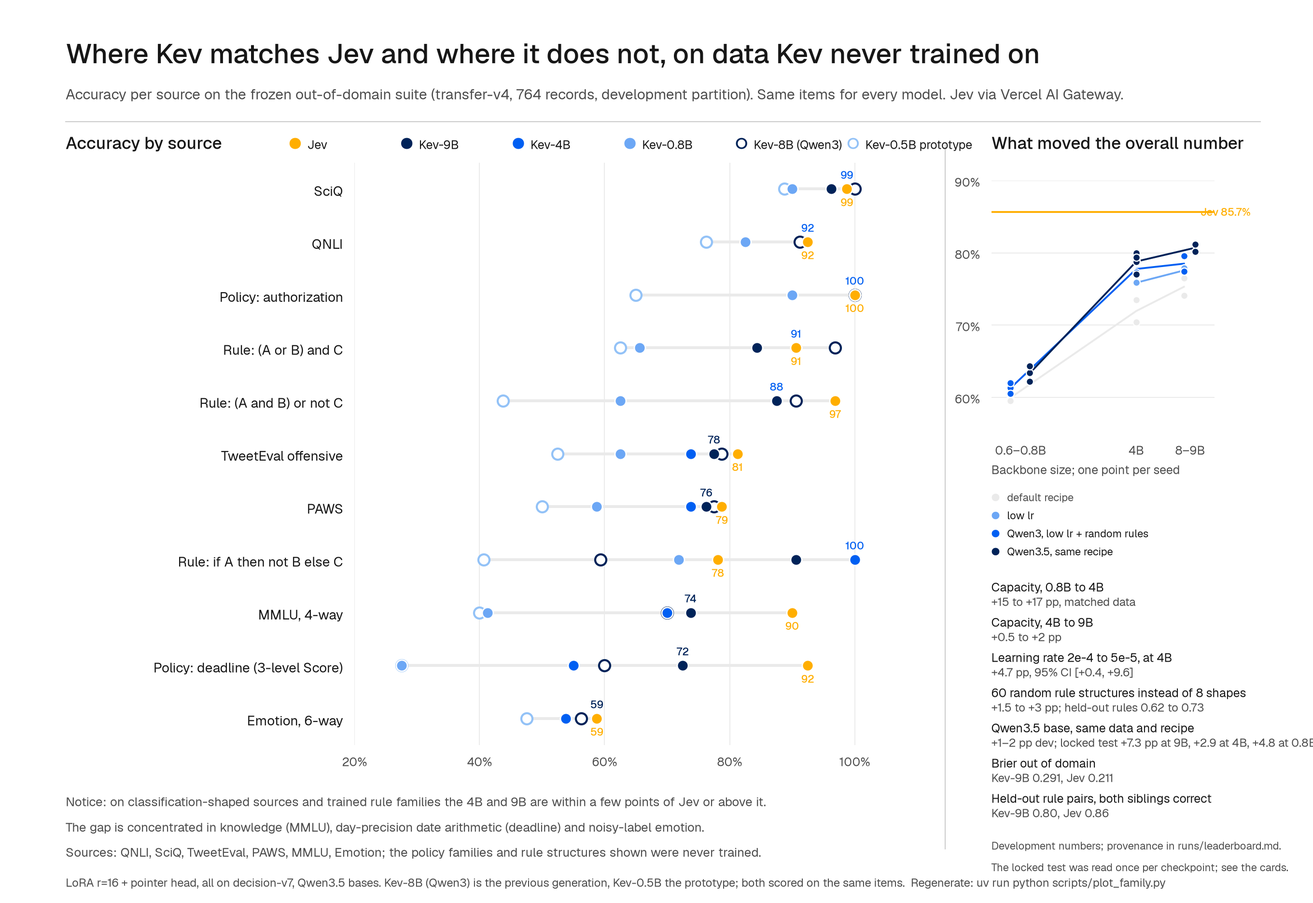
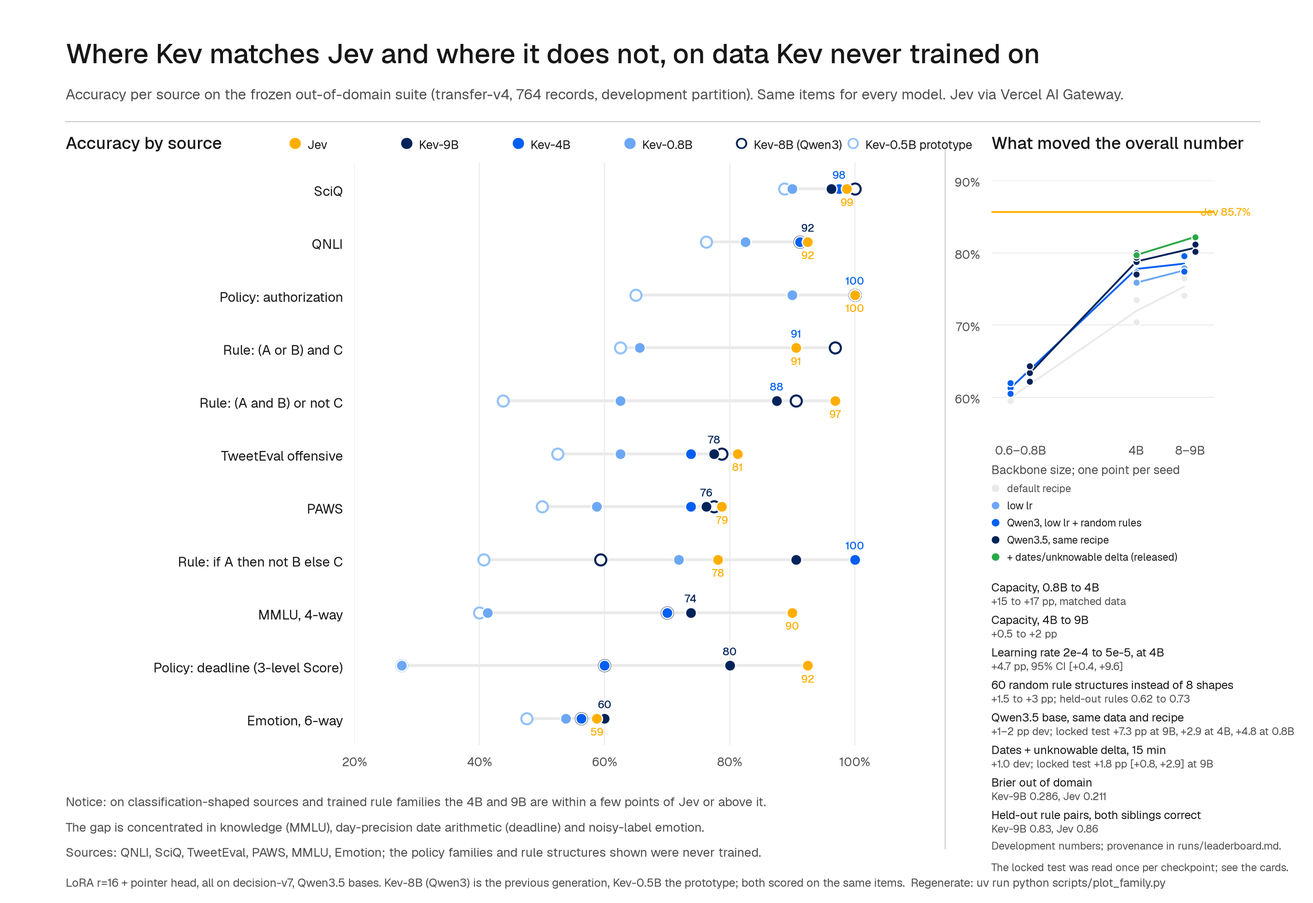
Promote the dates+unknowable deltas: Kev-9B (locked 0.852) and Kev-4B (0.837) on Hub main, v7-base tags; cards with calibrated and date_facts rows; README models/settings; figures

diff --git a/scripts/plot_family.py b/scripts/plot_family.py
@@ -11,14 +11,14 @@ from pathlib import Path
 sys.path.insert(0, str(Path(__file__).resolve().parent))
 import matplotlib.pyplot as plt
 import numpy as np
-from chartstyle import GRID, HOLLOW, JEV, KEV, RULE, TEXT, TEXT2, body, display, heading, rule, strip, use_style
+from chartstyle import GREEN, GRID, HOLLOW, JEV, KEV, RULE, TEXT, TEXT2, body, display, heading, rule, strip, use_style
 
 ROOT = Path(__file__).resolve().parents[1]
 TASKS = [("sciq", "SciQ"), ("qnli", "QNLI"), ("contrastive_authorization", "Policy: authorization"), ("composition_held_and_or", "Rule: (A or B) and C"),
          ("composition_held_or_not", "Rule: (A and B) or not C"), ("tweet_offensive", "TweetEval offensive"), ("paws", "PAWS"),
          ("composition_held_conditional", "Rule: if A then not B else C"), ("mmlu", "MMLU, 4-way"), ("contrastive_deadline", "Policy: deadline (3-level Score)"), ("emotion", "Emotion, 6-way")]
 MODELS = [("kev-0.5b", "runs/kev-05b-transfer-v4/report.json"), ("kev-8b-qwen3", "runs/v7-final/00-trial-0/result.json"), ("kev-0.8b", "runs/q35-08b/02-trial-2/result.json"),
-          ("kev-4b", "runs/q35-4b-s23/00-trial-0/result.json"), ("kev-9b", "runs/q35-9b/01-trial-1/result.json")]
+          ("kev-4b", "runs/night2-4b-du/00-trial-0/result.json"), ("kev-9b", "runs/night2-9b-du/00-trial-0/result.json")]
 JEV_PATH = "runs/jev-transfer-v4/report.json"
 # capacity x recipe curve: (params in B, recipe, [transfer acc per seed], source trials)
 CURVE = [(0.6, "default recipe", [0.598, 0.595, 0.605], "v4-06b-hardened"), (0.6, "low lr + random rule structures", [0.613, 0.605, 0.620], "v7-06b"),
@@ -26,9 +26,10 @@ CURVE = [(0.6, "default recipe", [0.598, 0.595, 0.605], "v4-06b-hardened"), (0.6
          (4.0, "low lr + random rule structures", [0.773, 0.790, 0.770], "v7-rc3, v7-final/02"),
          (8.2, "default recipe", [0.765, 0.741], "v3-8b-s0 (transfer-v3 = same bytes)"), (8.2, "low lr", [0.774, 0.779, 0.774], "recipe-8b-r1/00, recipe-8b-r2/01, recipe-8b-s2"),
          (8.2, "low lr + random rule structures", [0.796, 0.774], "v7-final/00, v7-final/01"),
-         (0.8, "Qwen3.5 base, same recipe", [0.622, 0.634, 0.643], "q35-08b"), (4.0, "Qwen3.5 base, same recipe", [0.788, 0.800, 0.794, 0.770], "q35-4b, q35-4b-s23"), (9.7, "Qwen3.5 base, same recipe", [0.802, 0.812], "q35-9b")]
-RECIPE_COLOR = {"default recipe": GRID, "low lr": KEV["kev-0.6b"], "low lr + random rule structures": KEV["kev-4b"], "Qwen3.5 base, same recipe": KEV["kev-9b"]}
-RECIPE_SHORT = {"default recipe": "default recipe", "low lr": "low lr", "low lr + random rule structures": "Qwen3, low lr +\nrandom rules", "Qwen3.5 base, same recipe": "Qwen3.5,\nsame recipe"}
+         (0.8, "Qwen3.5 base, same recipe", [0.622, 0.634, 0.643], "q35-08b"), (4.0, "Qwen3.5 base, same recipe", [0.788, 0.800, 0.794, 0.770], "q35-4b, q35-4b-s23"), (9.7, "Qwen3.5 base, same recipe", [0.802, 0.812], "q35-9b"),
+         (4.0, "+ dates/unknowable delta", [0.797], "night2-4b-du"), (9.7, "+ dates/unknowable delta", [0.822], "night2-9b-du")]
+RECIPE_COLOR = {"default recipe": GRID, "low lr": KEV["kev-0.6b"], "low lr + random rule structures": KEV["kev-4b"], "Qwen3.5 base, same recipe": KEV["kev-9b"], "+ dates/unknowable delta": GREEN[700]}
+RECIPE_SHORT = {"default recipe": "default recipe", "low lr": "low lr", "low lr + random rule structures": "Qwen3, low lr +\nrandom rules", "Qwen3.5 base, same recipe": "Qwen3.5,\nsame recipe", "+ dates/unknowable delta": "+ dates/unknowable\ndelta (released)"}
 
 
 def transfer(path):
@@ -86,7 +87,7 @@ def main():
         cx.plot([p for p, _ in pts], [np.mean(v) for _, v in pts], color=color, lw=1.6, zorder=2)
     cx.axhline(100 * jev_acc, color=JEV, lw=1.6, zorder=1); cx.annotate(f"Jev {100 * jev_acc:.1f}%", (9, 100 * jev_acc), xytext=(9, 0), textcoords="offset points", fontsize=9.5, color=JEV, va="center", weight="medium")
     for j, (recipe, color) in enumerate(RECIPE_COLOR.items()):     # key as text lines under the axis, one per series (end labels collide at 8-9B)
-        fig.text(x0, .445 - .02 * j, "●", fontsize=9, color=color, va="baseline"); fig.text(x0 + .012, .445 - .02 * j, RECIPE_SHORT[recipe].replace("\n", " "), fontsize=9.5, color=TEXT2 if color == GRID else TEXT, va="baseline")
+        fig.text(x0, .455 - .019 * j, "●", fontsize=9, color=color, va="baseline"); fig.text(x0 + .012, .455 - .019 * j, RECIPE_SHORT[recipe].replace("\n", " "), fontsize=9, color=TEXT2 if color == GRID else TEXT, va="baseline")
     cx.set_xscale("log"); cx.set_xticks([0.7, 4, 9]); cx.set_xticklabels(["0.6–0.8B", "4B", "8–9B"], fontsize=10.5, color=TEXT2); cx.set_xlim(0.45, 13)
     cx.set_ylim(55, 90); cx.set_yticks(range(60, 91, 10)); cx.set_yticklabels([f"{v}%" for v in range(60, 91, 10)], fontsize=10.5, color=TEXT2)
     cx.grid(axis="y", color=GRID, lw=.8, zorder=0); cx.tick_params(length=0); strip(cx); cx.minorticks_off()
@@ -95,9 +96,10 @@ def main():
     rows = [("Capacity, 0.8B to 4B", "+15 to +17 pp, matched data"), ("Capacity, 4B to 9B", "+0.5 to +2 pp"),
             ("Learning rate 2e-4 to 5e-5, at 4B", "+4.7 pp, 95% CI [+0.4, +9.6]"), ("60 random rule structures instead of 8 shapes", "+1.5 to +3 pp; held-out rules 0.62 to 0.73"),
             ("Qwen3.5 base, same data and recipe", "+1–2 pp dev; locked test +7.3 pp at 9B, +2.9 at 4B, +4.8 at 0.8B"),
+            ("Dates + unknowable delta, 15 min", "+1.0 dev; locked test +1.8 pp [+0.8, +2.9] at 9B"),
             ("Brier out of domain", f"Kev-9B {data['kev-9b'][2]:.3f}, Jev {jev_brier:.3f}"), ("Held-out rule pairs, both siblings correct", f"Kev-9B {data['kev-9b'][3]:.2f}, Jev {jev_pairs:.2f}")]
     for i, (k, v) in enumerate(rows):
-        fig.text(x0, .345 - .039 * i, k, fontsize=10.5, color=TEXT, va="baseline"); fig.text(x0, .345 - .039 * i - .016, v, fontsize=10, color=TEXT2, va="baseline")
+        fig.text(x0, .345 - .036 * i, k, fontsize=10, color=TEXT, va="baseline"); fig.text(x0, .345 - .036 * i - .015, v, fontsize=9.5, color=TEXT2, va="baseline")
     body(fig, x0, .075, "Development numbers; provenance in runs/leaderboard.md.\nThe locked test was read once per checkpoint; see the cards.", size=9.5, va="top")
     body(fig, .05, .018, "LoRA r=16 + pointer head, all on decision-v7, Qwen3.5 bases. Kev-8B (Qwen3) is the previous generation, Kev-0.5B the prototype; both scored on the same items.  Regenerate: uv run python scripts/plot_family.py", size=10)
 

diff --git a/scripts/plot_tweet.py b/scripts/plot_tweet.py
@@ -16,14 +16,14 @@ import chartstyle as cs
 from chartstyle import HOLLOW, JEV, KEV, body, display, heading, hbars, rule, stat, use_style
 
 ROOT = Path(__file__).resolve().parents[1]
-MODELS = [("kev-9b", "Qwen3.5-9B", "runs/q35-9b/01-trial-1/result.json"),
-          ("kev-4b", "Qwen3.5-4B", "runs/q35-4b-s23/00-trial-0/result.json"),
+MODELS = [("kev-9b", "Qwen3.5-9B", "runs/night2-9b-du/00-trial-0/result.json"),
+          ("kev-4b", "Qwen3.5-4B", "runs/night2-4b-du/00-trial-0/result.json"),
           ("kev-0.8b", "Qwen3.5-0.8B", "runs/q35-08b/02-trial-2/result.json")]
 PROTOTYPE = ("kev-0.5b", "Qwen2.5-0.5B, prototype", "runs/kev-05b-transfer-v4/report.json")
 BASES = [("Qwen3.5-9B", "untrained base", "runs/probes/qwen35-9b-base-base-transfer-v4/report.json"),
          ("Qwen3.5-4B instruct", "untrained, SemIf prompt", "runs/probes/qwen35-4b-semif-transfer-v4/report.json")]
-LOCKED = [("kev-9b", "runs/locked/kev-9b-q35/summary.json"),
-          ("kev-4b", "runs/locked/kev-4b-q35/summary.json"),
+LOCKED = [("kev-9b", "runs/locked/kev-9b-night2-du-ungated/summary.json"),
+          ("kev-4b", "runs/locked/kev-4b-night2-du-ungated/summary.json"),
           ("kev-0.8b", "runs/locked/kev-08b-q35-ungated/summary.json")]
 JEV_T = "runs/jev-transfer-v4/report.json"
 

diff --git a/docs/model-cards/kev-4b.md b/docs/model-cards/kev-4b.md
@@ -33,77 +33,87 @@ model-index:
       - task: { type: text-classification, name: typed decision (choice / noul / score) }
         dataset: { type: mixed, name: "decision-v7 development (1,204 records; ten trained public sources + programmatic policy data)" }
         metrics:
-          - { type: accuracy, value: 0.877 }
-          - { type: expected_calibration_error, value: 0.059, name: "ECE, raw probabilities" }
+          - { type: accuracy, value: 0.872 }
+          - { type: expected_calibration_error, value: 0.075, name: "ECE, raw probabilities" }
       - task: { type: text-classification, name: typed decision, out-of-domain }
         dataset: { type: mixed, name: "transfer-v4 development (764 records; six never-trained sources + held-out policy structures)" }
         metrics:
-          - { type: accuracy, value: 0.794 }
-          - { type: brier_score, value: 0.316 }
+          - { type: accuracy, value: 0.797 }
+          - { type: brier_score, value: 0.299 }
       - task: { type: text-classification, name: typed decision, out-of-domain, locked test }
         dataset: { type: mixed, name: "transfer-v4 test (read once)" }
         metrics:
-          - { type: accuracy, value: 0.832 }
-          - { type: brier_score, value: 0.266 }
+          - { type: accuracy, value: 0.837 }
+          - { type: brier_score, value: 0.255 }
 ---
 
 # Kev-4B
 
 Kev-4B is a **decision model**: one document (the *state*) and a set of typed questions in, a probability distribution per question out, in one forward pass. No text generation. It is a LoRA adapter (r=16, 33.8M trainable parameters) plus a pointer head on `Qwen/Qwen3.5-4B-Base` (revision `1001bb4d`), serving TypeSafe's public `/v1/systemone` contract.
 
-**The recommended Kev.** The best accuracy per byte: out of domain 0.794 on the development partition and **0.832 on the locked test**, against the Qwen3 Kev-4B's 0.790 / 0.806 on the same items, with better calibration (Brier 0.266 vs 0.294 on the test) and the highest held-out-rule score of any 4B (0.78). Same recipe at four seeds: transfer 0.788 / 0.800 / **0.794** / 0.770, held-out pairs 0.72 / 0.75 / 0.78 / 0.69; this checkpoint is seed 2, selected on the development partition (highest development accuracy).
+**The recommended Kev.** The best accuracy per byte: out of domain 0.797 on the development partition and **0.837 on the locked test**, Brier 0.255 on the test, held-out rule pairs 0.77–0.78. This checkpoint is the `decision-v7` recipe (trial `q35-4b-s23/00-trial-0`, seed 2, selected on development accuracy) followed by a 9-minute **delta fine-tune** (`--init_from`, lr 2e-5, one epoch) on 1,425 additional records — date-bearing policy cases rendered with explicit day counts, and evidence-free cases with uniform targets — mixed with 2,000 replayed training records. Against the pre-delta checkpoint on the locked test: +1.0 pp [−0.1, +2.1], Brier 0.266 → 0.255, `deadline` 0.65 → 0.75.
 
-- Hub: `jaredpalmer/kev-4b` (this repo, main revision; trial `q35-4b-s23/00-trial-0`). The previous Qwen3 checkpoint is at revision `qwen3` and has [its own card](kev-4b-qwen3.md).
+- Hub: `jaredpalmer/kev-4b` (this repo; trial `night2-4b-du/00-trial-0`). The pre-delta checkpoint is at revision `v7-base`; the Qwen3 generation at `qwen3` ([its card](kev-4b-qwen3.md)).
 - Code, suites, every trial with hashes and paired bootstraps: [github.com/jaredpalmer/kev](https://github.com/jaredpalmer/kev) — `PLAN_Qwen35.md` (the port and this experiment), `PLAN.md`, `runs/leaderboard.md`
 
 ## Results (same frozen items for every row)
 
-| | Kev-4B (Qwen3) | Kev-8B (Qwen3) | **Kev-4B** | Kev-9B | Jev |
+| | Kev-4B (Qwen3) | Kev-4B before the delta (`v7-base`) | **Kev-4B** | Kev-4B, calibrated (T = 2.0) | Jev |
 |---|---|---|---|---|---|
-| in-distribution accuracy (decision-v7 dev, 1,204 records) | 0.854 | 0.863 | **0.877** | 0.876 | 0.845 |
-| out-of-domain accuracy (transfer-v4 dev, 764 records) | 0.790 | 0.796 | **0.794** | 0.812 | 0.857 |
-| out-of-domain Brier | 0.328 | 0.337 | **0.316** | 0.291 | 0.211 |
-| confident errors out of domain (p ≥ 0.9 and wrong) | 8.2% | 9.9% | 8.2% | 7.5% | 3.7% |
-| coverage at ≤ 5% error (share of decisions automatable) | 0.31 | 0.45 | 0.54 | 0.53 | 0.70 |
-| held-out policy structures, both siblings correct | 0.73 | 0.69 | **0.78** | 0.80 | 0.86 |
-| option-order flip rate | 0.06 | 0.00 | 0.08 | 0.03 | 0.00 |
-| **locked test**, out-of-domain accuracy / Brier | 0.806 / 0.294 | 0.780 / 0.327 | **0.832 / 0.266** | 0.837 / 0.243 | – |
-| **locked test**, in-distribution accuracy | 0.856 | 0.870 | 0.870 | 0.873 | – |
+| in-distribution accuracy (decision-v7 dev, 1,204 records) | 0.854 | 0.877 | 0.872 | 0.872 | 0.845 |
+| out-of-domain accuracy (transfer-v4 dev, 764 records) | 0.790 | 0.794 | **0.797** | 0.797 | 0.857 |
+| out-of-domain Brier | 0.328 | 0.316 | 0.299 | **0.265** | 0.211 |
+| out-of-domain ECE | 0.102 | 0.130 | 0.122 | **0.048** | 0.049 |
+| confident errors out of domain (p ≥ 0.9 and wrong) | 8.2% | 8.2% | 6.9% | **3.2%** | 3.7% |
+| coverage at ≤ 5% error (share of decisions automatable) | 0.31 | 0.54 | 0.54 | 0.58 | 0.70 |
+| held-out policy structures, both siblings correct | 0.73 | 0.78 | 0.78 | 0.78 | 0.86 |
+| unknowable items answered at ≥ 0.9 (lower is better; transfer-v9) | 0.44 | 0.19 | **0.00** | 0.00 | 0.09 |
+| **locked test**, out-of-domain accuracy / Brier | 0.806 / 0.294 | 0.832 / 0.266 | **0.837 / 0.255** | – | – |
+| **locked test**, in-distribution accuracy | 0.856 | 0.870 | 0.871 | – | – |
 
-Per-source out-of-domain accuracy (Kev-4B / Jev): QNLI 0.93 / 0.93, SciQ 0.99 / 0.99, TweetEval-offensive 0.74 / 0.81, PAWS 0.74 / 0.79, MMLU 0.70 / 0.90, Emotion 0.54 / 0.59, deadline (3-level date arithmetic) 0.55 / 0.93, (A or B) and C 0.91 / 0.91, (A and B) or not C 0.88 / 0.97, if A then not B else C 1.00 / 0.78.
+Per-source out-of-domain accuracy (Kev-4B / Jev): QNLI 0.91 / 0.93, SciQ 0.97 / 0.99, TweetEval-offensive 0.74 / 0.81, PAWS 0.74 / 0.79, MMLU 0.70 / 0.90, Emotion 0.56 / 0.59, deadline (3-level date arithmetic) 0.60 / 0.93 — **0.85 with the `date_facts` preprocessor** (below), (A or B) and C 0.91 / 0.91, (A and B) or not C 0.88 / 0.97, if A then not B else C 1.00 / 0.78.
 
-**Paired against the Qwen3 Kev-4B on the same items** (record-clustered bootstrap): development +1.3 pp [−1.3, +4.6]; **locked test +2.9 pp [−0.9, +6.4]**, Brier −0.028. The pre-registered criteria for this experiment asked for a development-partition CI excluding zero and `deadline` ≥ 0.75; neither was met (deadline 0.55). The locked read, taken once after selection, is the confirmatory number. Both facts are in `PLAN_Qwen35.md` §10.
+**Calibrated row.** A single temperature T = 2.0 fitted on the in-distribution development rows and applied out of domain (`scripts/temperature_groups.py`). It leaves accuracy and the confidence ranking unchanged and brings ECE and confident errors to Jev's level; it is applied only when you ask for it (`KEV_TEMPERATURE=2.0` in `kev.serve`). Per-(type, option-count) temperatures were tested and are worse out of domain.
 
-**Newer evaluation columns** (`transfer-v9` development, Kev-4B / Qwen3 Kev-4B / Jev): MMLU-Pro (10-way) 0.500 / 0.440 / 0.840; state buried among unrelated records 0.66 / 0.69 / 0.70; share of *unknowable* items (deciding evidence removed) answered at ≥ 0.9 confidence 0.19 / 0.44 / 0.09 — lower is better.
+**`date_facts` preprocessor.** Kev, like every Kev before it, cannot subtract dates reliably (the untrained base can; LoRA training erodes it). It can use a stated day count. `KEV_DATE_FACTS=1` appends one sentence per pair of absolute dates found in the state ("June 26, 2026 is 8 days before July 4, 2026"); this checkpoint was trained on such renderings, so with it `deadline` goes from 0.60 to 0.85 and overall out-of-domain accuracy from 0.797 to 0.820. It is preprocessing, reported separately, never folded into the model's own numbers.
 
-**External suites** (same items as their published Jev numbers; measured on seed 1 of this recipe): SemIf's authored 144 — 0.896 (Qwen3 Kev-4B 0.847, SemIf's untrained Qwen3.5-4B 0.813, live Jev 0.965); scienthoon's 900 tickets — queue 0.928, angry 0.794, ECE 0.086 (Jev 0.897, 0.914, 0.105; the Qwen3 Kev-4B scored 0.687 / 0.375).
+**What the delta cost.** MMLU-Pro fell 0.500 → 0.490 and scienthoon's ECE rose 0.086 → 0.116; coverage at ≤ 5% error was unchanged (0.54 development, 0.67 → 0.68 locked test) and confident errors fell (8.2% → 6.9%). The pre-registered criteria for the delta (`PLAN.md`, "Tonight's autoresearch") were met for dates and for the unknowable-confidence behaviour; the coverage criterion asked for +5 pp and got 0; the locked read decided promotion.
 
-## What changed from the Qwen3 Kev-4B
+**Newer evaluation columns** (`transfer-v9` development, Kev-4B / Jev): MMLU-Pro (10-way) 0.490 / 0.840; state buried among unrelated records 0.68 / 0.70; unknowable share at ≥ 0.9 confidence 0.00 / 0.09 (intact controls 0.94).
+
+**External suites** (same items as their published Jev numbers): SemIf's authored 144 — 0.896 before the delta (live Jev 0.965; SemIf's untrained Qwen3.5-4B 0.813); scienthoon's 900 tickets — queue 0.918, angry 0.790, ECE 0.116 (Jev 0.897, 0.914, 0.105). On ekzhang's 1,000-question MMLU-Pro sample the pre-delta checkpoint scores 0.468 (Jev 0.829).
+
+## How it was built
 
 - **Base model**: Qwen3.5-4B-Base, a hybrid of 24 Gated DeltaNet (linear attention) layers and 8 full-attention layers. Because the recurrent layers cannot honour a block-causal mask, questions run as separate causal rows that continue from the shared state (`kev/model.py: forward_rows_batch`); isolation is exact by construction (together vs alone within 1e-5) and on attention-only models this form is bit-identical to the packed one.
-- **Same data and recipe** as the Qwen3 checkpoints: `decision-v7`, two epochs, LoRA r=16 (attention, MLP and DeltaNet projections), lr 5e-5. Nothing else changed, so every difference above is the base.
-- What the new base bought: in-distribution accuracy (+2.3 pp), knowledge retention (MMLU +5 pp, MMLU-Pro +6 pp), held-out rules (0.73 → 0.78, and 3 of 4 seeds ≥ 0.70), coverage at ≤ 5% error (0.31 → 0.54), and behaviour on evidence-free questions (0.44 → 0.19 confidently answered). What it did not buy: out-of-domain accuracy beyond noise on the development partition, Emotion (0.66 → 0.54), or date arithmetic — the base does it at 0.68 zero-shot and training erodes it to 0.55 (see `PLAN_Qwen35.md`, "The deadline hypothesis").
+- **Recipe**: `decision-v7`, two epochs, LoRA r=16 (attention, MLP and DeltaNet projections), lr 5e-5 — the same data and settings as every other Kev, so the Qwen3 → Qwen3.5 difference is the base (`PLAN_Qwen35.md` §10: locked test +7.3 pp [+2.8, +11.7] over Kev-8B).
+- **Delta**: `kev.train --init_from jaredpalmer/kev-4b@v7-base --data evals/night2/dates_unknowable.jsonl --replay 2000 --lr 2e-5 --epochs 1`. The 1,425 new records are generated (no public dataset): 900 date-bearing policy cases, a third rendered plainly, a third with a relational day-count sentence, a third with a `date_facts` field; 255 cases with the deciding sentence removed and a uniform soft target over the options, plus their 270 intact controls. Record hashes are in `evals/night2/manifest.json`; the source checkpoint's hashes are in `training_config.json`.
+- Why a delta and not a retrain: it is a controlled change (one fixed checkpoint, one data addition, 9 minutes), and the results section shows exactly what it moved.
 
 ## Known limits
 
+- Use [Kev-9B](kev-9b.md) when accuracy and calibration matter more than memory: 0.852 vs 0.837 out of domain on the locked test, Brier 0.237 vs 0.255.
+
 - **Slow on a Mac.** The DeltaNet kernels have no MPS implementation; PyTorch falls back to reference code. A five-question request that takes 0.17 s on the Qwen3 Kev-4B takes 0.78 s here in bf16 on an M5. On CUDA with `flash-linear-attention` installed it is fast. Use `jaredpalmer/kev-4b@qwen3` for low latency on Apple Silicon until an MLX path exists.
 - Requires `transformers >= 5.17` (the `qwen3_5` architecture) and `peft >= 0.21`.
-- Date arithmetic (`deadline` 0.55 vs Jev 0.93), knowledge (MMLU 0.70 vs 0.90) and noisy-label emotion (0.54 vs 0.59) remain the gap to Jev. Training data that renders day counts is the next experiment ([issue #8](https://github.com/jaredpalmer/kev/issues/8)).
-- Out-of-domain probabilities are usable but not calibrated (raw ECE 0.130 dev, 0.102 test); temperature fitted in-domain does not transfer.
+- Knowledge (MMLU 0.70 vs Jev 0.90; MMLU-Pro 0.490 vs 0.840), TweetEval (0.74 vs 0.81) and noisy-label Emotion (0.56 vs 0.59) are the remaining gap; knowledge is set by the base (the untrained Qwen3.5-4B scores the same).
+- Date arithmetic without the preprocessor: `deadline` 0.60 (Jev 0.93). With `KEV_DATE_FACTS=1`: 0.85.
+- Raw probabilities are over-confident out of domain (ECE 0.122); `KEV_TEMPERATURE=2.0` fixes most of it (ECE 0.048) without changing any answer. Coverage at a 5% error budget is 0.54–0.68 against Jev's 0.70.
 - 4B bf16 needs ~9 GB of GPU memory for serving; training took 56 min on one H100 (peak 24.6 GB).
 
 ## Training
 
-Frozen suite `evals/v7/decision-v7`: 10,000 public records (1,000 per source), 896 policy minimal-pair records over nine template families, 1,680 records from 60 randomly generated rule structures in four rendering styles. Two epochs, LoRA r=16 α=32 on `q/k/v/o_proj`, `gate/up/down_proj`, `in_proj_qkv/z/a/b`, `out_proj`; pointer head from scratch; cross-entropy on the option distribution; lr 5e-5 (OneCycle), effective batch 8, bf16 autocast with fp32 master weights, gradient checkpointing; option permutation, none-of-the-above insertion, distractors, none minimal pairs on 25% of Choice records. No Jev outputs were used for training.
+Frozen suite `evals/v7/decision-v7`: 10,000 public records (1,000 per source), 896 policy minimal-pair records over nine template families, 1,680 records from 60 randomly generated rule structures in four rendering styles. Two epochs, LoRA r=16 α=32 on `q/k/v/o_proj`, `gate/up/down_proj`, `in_proj_qkv/z/a/b`, `out_proj`; pointer head from scratch; cross-entropy on the option distribution; lr 5e-5 (OneCycle), effective batch 8, bf16 autocast with fp32 master weights, gradient checkpointing; option permutation, none-of-the-above insertion, distractors, none minimal pairs on 25% of Choice records. Then the delta described above (one epoch, lr 2e-5, 3,937 records seen, 9 minutes on one H100). No Jev outputs were used for training.
 
 ## Evaluation protocol
 
-Development partitions select models; the locked test partition is read at most once per candidate (`runs/locked/kev-4b-q35/`). Every number carries suite hash, code hashes and git commit in `result.json`. Untrained-base baselines use zero-shot letter logits on the same items (`scripts/base_mmlu_probe.py`).
+Development partitions select models; the locked test partition is read at most once per candidate (`runs/locked/kev-4b-night2-du-ungated/`; the pre-delta read is `runs/locked/kev-4b-q35/`). Every number carries suite hash, code hashes and git commit in `result.json`. Untrained-base baselines use zero-shot letter logits on the same items (`scripts/base_mmlu_probe.py`).
 
 ## Use
 
 ```bash
 uv run --extra serve python -m kev.serve --run jaredpalmer/kev-4b --port 8008      # KEV_DTYPE=bf16 on a Mac; slow on MPS, see limits
+KEV_TEMPERATURE=2.0 KEV_DATE_FACTS=1 uv run --extra serve python -m kev.serve --run jaredpalmer/kev-4b --port 8008   # calibrated probabilities + date preprocessing
 ```
 
 Any TypeSafe-compatible client works: `TypeSafeClient(api_key="local", base_url="http://127.0.0.1:8008", model="kev-latest")`.

diff --git a/docs/model-cards/kev-9b.md b/docs/model-cards/kev-9b.md
@@ -33,77 +33,85 @@ model-index:
       - task: { type: text-classification, name: typed decision (choice / noul / score) }
         dataset: { type: mixed, name: "decision-v7 development (1,204 records; ten trained public sources + programmatic policy data)" }
         metrics:
-          - { type: accuracy, value: 0.876 }
-          - { type: expected_calibration_error, value: 0.060, name: "ECE, raw probabilities" }
+          - { type: accuracy, value: 0.872 }
+          - { type: expected_calibration_error, value: 0.076, name: "ECE, raw probabilities" }
       - task: { type: text-classification, name: typed decision, out-of-domain }
         dataset: { type: mixed, name: "transfer-v4 development (764 records; six never-trained sources + held-out policy structures)" }
         metrics:
-          - { type: accuracy, value: 0.812 }
-          - { type: brier_score, value: 0.291 }
+          - { type: accuracy, value: 0.822 }
+          - { type: brier_score, value: 0.286 }
       - task: { type: text-classification, name: typed decision, out-of-domain, locked test }
         dataset: { type: mixed, name: "transfer-v4 test (read once)" }
         metrics:
-          - { type: accuracy, value: 0.837 }
-          - { type: brier_score, value: 0.243 }
+          - { type: accuracy, value: 0.852 }
+          - { type: brier_score, value: 0.237 }
 ---
 
 # Kev-9B
 
 Kev-9B is a **decision model**: one document (the *state*) and a set of typed questions in, a probability distribution per question out, in one forward pass. No text generation. It is a LoRA adapter (r=16, 45.4M trainable parameters) plus a pointer head on `Qwen/Qwen3.5-9B-Base` (revision `68c46c4b`), serving TypeSafe's public `/v1/systemone` contract.
 
-**The most accurate Kev.** Out of domain it scores 0.812 on the development partition and **0.837 on the locked test**, against Kev-8B's 0.796 / 0.780 on the same items, with the lowest Brier of any Kev (0.243 on the test). It is the first Kev at 8–9B to pass the 70% held-out-pair screen on every seed (0.75 / 0.80). Same recipe at two seeds: transfer 0.802 / **0.812**; this checkpoint is seed 1, selected on the development partition.
+**The most accurate Kev.** Out of domain it scores 0.822 on the development partition and **0.852 on the locked test** (Jev: 0.857 on the development items), with the lowest Brier of any Kev (0.237 on the test) and held-out rule pairs at 0.81–0.83. This checkpoint is the `decision-v7` recipe (trial `q35-9b/01-trial-1`, seed 1, selected on development accuracy) followed by a 15-minute **delta fine-tune** (`--init_from`, lr 2e-5, one epoch) on 1,425 additional records — date-bearing policy cases rendered with explicit day counts, and evidence-free cases with uniform targets — mixed with 2,000 replayed training records. Against the pre-delta checkpoint on the locked test: +1.8 pp [+0.8, +2.9], Brier 0.243 → 0.237, `deadline` 0.72 → 0.88.
 
-- Hub: `jaredpalmer/kev-9b` (this repo; trial `q35-9b/01-trial-1`)
+- Hub: `jaredpalmer/kev-9b` (this repo; trial `night2-9b-du/00-trial-0`). The pre-delta checkpoint is at revision `v7-base`.
 - Code, suites, every trial with hashes and paired bootstraps: [github.com/jaredpalmer/kev](https://github.com/jaredpalmer/kev) — `PLAN_Qwen35.md` (the port and this experiment), `PLAN.md`, `runs/leaderboard.md`
 
 ## Results (same frozen items for every row)
 
-| | Kev-4B (Qwen3) | Kev-8B (Qwen3) | Kev-4B | **Kev-9B** | Jev |
+| | Kev-8B (Qwen3) | Kev-9B before the delta (`v7-base`) | **Kev-9B** | Kev-9B, calibrated (T = 2.0) | Jev |
 |---|---|---|---|---|---|
-| in-distribution accuracy (decision-v7 dev, 1,204 records) | 0.854 | 0.863 | 0.877 | 0.876 | 0.845 |
-| out-of-domain accuracy (transfer-v4 dev, 764 records) | 0.790 | 0.796 | 0.794 | **0.812** | 0.857 |
-| out-of-domain Brier | 0.328 | 0.337 | 0.316 | **0.291** | 0.211 |
-| confident errors out of domain (p ≥ 0.9 and wrong) | 8.2% | 9.9% | 8.2% | 7.5% | 3.7% |
-| coverage at ≤ 5% error (share of decisions automatable) | 0.31 | 0.45 | 0.54 | 0.53 | 0.70 |
-| held-out policy structures, both siblings correct | 0.73 | 0.69 | 0.78 | **0.80** | 0.86 |
-| option-order flip rate | 0.06 | 0.00 | 0.08 | 0.03 | 0.00 |
-| **locked test**, out-of-domain accuracy / Brier | 0.806 / 0.294 | 0.780 / 0.327 | 0.832 / 0.266 | **0.837 / 0.243** | – |
-| **locked test**, in-distribution accuracy | 0.856 | 0.870 | 0.870 | 0.873 | – |
+| in-distribution accuracy (decision-v7 dev, 1,204 records) | 0.863 | 0.876 | 0.872 | 0.872 | 0.845 |
+| out-of-domain accuracy (transfer-v4 dev, 764 records) | 0.796 | 0.812 | **0.822** | 0.822 | 0.857 |
+| out-of-domain Brier | 0.337 | 0.291 | 0.286 | **0.265** | 0.211 |
+| out-of-domain ECE | 0.121 | 0.105 | 0.106 | **0.050** | 0.049 |
+| confident errors out of domain (p ≥ 0.9 and wrong) | 9.9% | 7.5% | 8.7% | **4.4%** | 3.7% |
+| coverage at ≤ 5% error (share of decisions automatable) | 0.45 | 0.53 | 0.47 | 0.47 | 0.70 |
+| held-out policy structures, both siblings correct | 0.69 | 0.80 | **0.83** | 0.83 | 0.86 |
+| unknowable items answered at ≥ 0.9 (lower is better; transfer-v9) | 0.26 | 0.05 | **0.00** | 0.00 | 0.09 |
+| **locked test**, out-of-domain accuracy / Brier | 0.780 / 0.327 | 0.837 / 0.243 | **0.852 / 0.237** | – | – |
+| **locked test**, in-distribution accuracy | 0.870 | 0.873 | 0.874 | – | – |
 
-Per-source out-of-domain accuracy (Kev-9B / Jev): QNLI 0.93 / 0.93, SciQ 0.96 / 0.99, TweetEval-offensive 0.78 / 0.81, PAWS 0.76 / 0.79, MMLU 0.74 / 0.90, Emotion 0.59 / 0.59, deadline (3-level date arithmetic) 0.72 / 0.93, (A or B) and C 0.84 / 0.91, (A and B) or not C 0.88 / 0.97, if A then not B else C 0.91 / 0.78.
+Per-source out-of-domain accuracy (Kev-9B / Jev): QNLI 0.93 / 0.93, SciQ 0.96 / 0.99, TweetEval-offensive 0.78 / 0.81, PAWS 0.76 / 0.79, MMLU 0.74 / 0.90, Emotion 0.60 / 0.59, deadline (3-level date arithmetic) 0.80 / 0.93 — **0.90 with the `date_facts` preprocessor** (below), (A or B) and C 0.91 / 0.91, (A and B) or not C 0.88 / 0.97, if A then not B else C 0.91 / 0.78.
 
-**Paired against Kev-8B on the same items** (record-clustered bootstrap): development +2.7 pp [−1.8, +6.4]; **locked test +7.3 pp [+2.8, +11.7]**, Brier −0.084. The pre-registered criteria for this experiment asked for a development-partition CI excluding zero and `deadline` ≥ 0.75; neither was met (deadline 0.72). The locked read, taken once after selection, is the confirmatory number. Both facts are in `PLAN_Qwen35.md` §10.
+**Calibrated row.** A single temperature T = 2.0 fitted on the in-distribution development rows and applied out of domain (`scripts/temperature_groups.py`). It leaves accuracy and the confidence ranking unchanged and brings ECE and confident errors to Jev's level; it is applied only when you ask for it (`KEV_TEMPERATURE=2.0` in `kev.serve`). Per-(type, option-count) temperatures were tested and are worse out of domain.
 
-**Newer evaluation columns** (`transfer-v9` development, Kev-9B / Kev-8B / Jev): MMLU-Pro (10-way) 0.545 / 0.500 / 0.840; state buried among unrelated records 0.74 / 0.72 / 0.70; share of *unknowable* items (deciding evidence removed) answered at ≥ 0.9 confidence **0.05** / 0.26 / 0.09 — lower is better, and this is the first Kev that mostly declines to commit when the evidence is missing.
+**`date_facts` preprocessor.** Kev, like every Kev before it, cannot subtract dates reliably (the untrained base can; LoRA training erodes it). It can use a stated day count. `KEV_DATE_FACTS=1` appends one sentence per pair of absolute dates found in the state ("June 26, 2026 is 8 days before July 4, 2026"); this checkpoint was trained on such renderings, so with it `deadline` goes from 0.80 to 0.90 and overall out-of-domain accuracy from 0.822 to 0.828. It is preprocessing, reported separately, never folded into the model's own numbers.
 
-**External suites** (same items as their published Jev numbers): SemIf's authored 144 — 0.917 (Kev-8B 0.903, SemIf's untrained Qwen3.5-4B 0.813, live Jev 0.965); scienthoon's 900 tickets — queue 0.952, angry 0.911, ECE 0.082 (Jev 0.897, 0.914, 0.105).
+**What the delta cost.** Coverage at ≤ 5% error fell (0.53 → 0.47 on development; 0.66 → 0.62 on the locked test), confident errors rose (7.5% → 8.7% raw), MMLU-Pro fell 0.545 → 0.515, and scienthoon's ECE rose 0.082 → 0.113. The pre-registered criteria for the delta (`PLAN.md`, "Tonight's autoresearch") were met for dates and for the unknowable-confidence behaviour and *not* met for coverage; the locked read decided promotion.
 
-## What changed from Kev-8B
+**Newer evaluation columns** (`transfer-v9` development, Kev-9B / Jev): MMLU-Pro (10-way) 0.515 / 0.840; state buried among unrelated records 0.74 / 0.70; unknowable share at ≥ 0.9 confidence 0.00 / 0.09 (intact controls 0.95).
+
+**External suites** (same items as their published Jev numbers): SemIf's authored 144 — 0.917 before the delta (live Jev 0.965; SemIf's untrained Qwen3.5-4B 0.813); scienthoon's 900 tickets — queue 0.952, angry 0.900, ECE 0.113 (Jev 0.897, 0.914, 0.105). On ekzhang's 1,000-question MMLU-Pro sample the pre-delta checkpoint scores 0.511 (Jev 0.829).
+
+## How it was built
 
 - **Base model**: Qwen3.5-9B-Base, a hybrid of 24 Gated DeltaNet (linear attention) layers and 8 full-attention layers. Because the recurrent layers cannot honour a block-causal mask, questions run as separate causal rows that continue from the shared state (`kev/model.py: forward_rows_batch`); isolation is exact by construction (together vs alone within 1e-5) and on attention-only models this form is bit-identical to the packed one.
-- **Same data and recipe** as Kev-4B/8B: `decision-v7`, two epochs, LoRA r=16 (attention, MLP and DeltaNet projections), lr 5e-5. Nothing else changed, so every difference above is the base.
-- What the new base bought: knowledge retention (MMLU +4 pp, MMLU-Pro +4.5 pp), calibration (Brier 0.337 → 0.291, confident errors 9.9% → 7.5%), held-out rules (0.69 → 0.80), and much better behaviour on evidence-free questions. What it did not buy: out-of-domain accuracy beyond noise on the development partition, or date arithmetic — the base does it at 0.82 zero-shot and training erodes it to 0.72 (see `PLAN_Qwen35.md`, "The deadline hypothesis").
+- **Recipe**: `decision-v7`, two epochs, LoRA r=16 (attention, MLP and DeltaNet projections), lr 5e-5 — the same data and settings as every other Kev, so the Qwen3 → Qwen3.5 difference is the base (`PLAN_Qwen35.md` §10: locked test +7.3 pp [+2.8, +11.7] over Kev-8B).
+- **Delta**: `kev.train --init_from jaredpalmer/kev-9b@v7-base --data evals/night2/dates_unknowable.jsonl --replay 2000 --lr 2e-5 --epochs 1`. The 1,425 new records are generated (no public dataset): 900 date-bearing policy cases, a third rendered plainly, a third with a relational day-count sentence, a third with a `date_facts` field; 255 cases with the deciding sentence removed and a uniform soft target over the options, plus their 270 intact controls. Record hashes are in `evals/night2/manifest.json`; the source checkpoint's hashes are in `training_config.json`.
+- Why a delta and not a retrain: it is a controlled change (one fixed checkpoint, one data addition, 15 minutes), and the results section shows exactly what it moved.
 
 ## Known limits
 
 - **Slow on a Mac.** The DeltaNet kernels have no MPS implementation; PyTorch falls back to reference code. A five-question request that takes 0.3 s on Kev-8B takes about 2 s here in bf16 on an M5. On CUDA with `flash-linear-attention` installed it is fast. Use Kev-8B (Qwen3, `jaredpalmer/kev-8b`) for low latency on Apple Silicon until an MLX path exists.
 - Requires `transformers >= 5.17` (the `qwen3_5` architecture) and `peft >= 0.21`.
-- Date arithmetic (`deadline` 0.72 vs Jev 0.93) and knowledge (MMLU 0.74 vs 0.90) remain the gap to Jev. Training data that renders day counts is the next experiment ([issue #8](https://github.com/jaredpalmer/kev/issues/8)).
-- Out-of-domain probabilities are usable but not calibrated (raw ECE 0.105 dev, 0.093 test); temperature fitted in-domain does not transfer.
+- Knowledge (MMLU 0.74 vs Jev 0.90; MMLU-Pro 0.515 vs 0.840) is the remaining gap and is set by the base: the untrained Qwen3.5-9B scores the same, and a Kev on the 35B-A3B MoE did not move MMLU-Pro either (`PLAN.md`, night-2 results).
+- Date arithmetic without the preprocessor: `deadline` 0.80 (Jev 0.93). With `KEV_DATE_FACTS=1`: 0.90.
+- Raw probabilities are over-confident out of domain (ECE 0.106); `KEV_TEMPERATURE=2.0` fixes most of it (ECE 0.050) without changing any answer. Coverage at a 5% error budget is 0.47–0.62 against Jev's 0.70.
 - 9B bf16 needs ~19 GB of GPU memory for serving; training took 91 min on one H100 (peak 39.5 GB).
 
 ## Training
 
-Frozen suite `evals/v7/decision-v7`: 10,000 public records (1,000 per source), 896 policy minimal-pair records over nine template families, 1,680 records from 60 randomly generated rule structures in four rendering styles. Two epochs, LoRA r=16 α=32 on `q/k/v/o_proj`, `gate/up/down_proj`, `in_proj_qkv/z/a/b`, `out_proj`; pointer head from scratch; cross-entropy on the option distribution; lr 5e-5 (OneCycle), effective batch 8, bf16 autocast with fp32 master weights, gradient checkpointing; option permutation, none-of-the-above insertion, distractors, none minimal pairs on 25% of Choice records. No Jev outputs were used for training.
+Frozen suite `evals/v7/decision-v7`: 10,000 public records (1,000 per source), 896 policy minimal-pair records over nine template families, 1,680 records from 60 randomly generated rule structures in four rendering styles. Two epochs, LoRA r=16 α=32 on `q/k/v/o_proj`, `gate/up/down_proj`, `in_proj_qkv/z/a/b`, `out_proj`; pointer head from scratch; cross-entropy on the option distribution; lr 5e-5 (OneCycle), effective batch 8, bf16 autocast with fp32 master weights, gradient checkpointing; option permutation, none-of-the-above insertion, distractors, none minimal pairs on 25% of Choice records. Then the delta described above (one epoch, lr 2e-5, 3,937 records seen, 15 minutes on one H100). No Jev outputs were used for training.
 
 ## Evaluation protocol
 
-Development partitions select models; the locked test partition is read at most once per candidate (`runs/locked/kev-9b-q35/`). Every number carries suite hash, code hashes and git commit in `result.json`. Untrained-base baselines use zero-shot letter logits on the same items (`scripts/base_mmlu_probe.py`).
+Development partitions select models; the locked test partition is read at most once per candidate (`runs/locked/kev-9b-night2-du-ungated/`; the pre-delta read is `runs/locked/kev-9b-q35/`). Every number carries suite hash, code hashes and git commit in `result.json`. Untrained-base baselines use zero-shot letter logits on the same items (`scripts/base_mmlu_probe.py`).
 
 ## Use
 
 ```bash
 uv run --extra serve python -m kev.serve --run jaredpalmer/kev-9b --port 8008      # KEV_DTYPE=bf16 on a 32 GB Mac; slow on MPS, see limits
+KEV_TEMPERATURE=2.0 KEV_DATE_FACTS=1 uv run --extra serve python -m kev.serve --run jaredpalmer/kev-9b --port 8008   # calibrated probabilities + date preprocessing
 ```
 
 Any TypeSafe-compatible client works: `TypeSafeClient(api_key="local", base_url="http://127.0.0.1:8008", model="kev-latest")`.

diff --git a/README.md b/README.md
@@ -125,13 +125,20 @@ Start with Kev-4B. Use Kev-9B when accuracy and calibration matter more than mem
 | Model | Base | Accuracy: Trained Sources | Accuracy: New Sources | Brier: New Sources | Model Card |
 |---|---|---|---|---|---|
 | [Kev-0.8B](https://huggingface.co/jaredpalmer/kev-0.8b) | Qwen3.5-0.8B-Base | 0.829 / 0.827 | 0.643 / 0.668 | 0.513 / 0.473 | [Details](docs/model-cards/kev-0.8b.md) |
-| [Kev-4B](https://huggingface.co/jaredpalmer/kev-4b) | Qwen3.5-4B-Base | 0.877 / 0.870 | 0.794 / 0.832 | 0.316 / 0.266 | [Details](docs/model-cards/kev-4b.md) |
-| [Kev-9B](https://huggingface.co/jaredpalmer/kev-9b) | Qwen3.5-9B-Base | 0.876 / 0.873 | **0.812 / 0.837** | **0.291 / 0.243** | [Details](docs/model-cards/kev-9b.md) |
+| [Kev-4B](https://huggingface.co/jaredpalmer/kev-4b) | Qwen3.5-4B-Base | 0.872 / 0.871 | 0.797 / 0.837 | 0.299 / 0.255 | [Details](docs/model-cards/kev-4b.md) |
+| [Kev-9B](https://huggingface.co/jaredpalmer/kev-9b) | Qwen3.5-9B-Base | 0.872 / 0.874 | **0.822 / 0.852** | **0.286 / 0.237** | [Details](docs/model-cards/kev-9b.md) |
 | Jev | Hosted | 0.845 / – | 0.857 / – | 0.211 / – | – |
 
 Each cell is **development / test**. "Trained sources" means held-out examples from the datasets used to train Kev. "New sources" means datasets and policy rule types Kev wasn't trained on. Every model was evaluated on the same development sets (`decision-v7`, `transfer-v4`) and the same test sets, which were read once per released checkpoint, after model selection. Lower Brier is better.
 
-Kev-9B trails Jev by about 4.5 points on the new-source development set. We don't know which datasets Jev was trained on, so this isn't a controlled comparison of the two architectures.
+Kev-9B trails Jev by 3.5 points on the new-source development set (0.822 vs 0.857) and scores 0.852 on the test set, which Jev hasn't been run on. We don't know which datasets Jev was trained on, so this isn't a controlled comparison of the two architectures.
+
+Kev-4B and Kev-9B were updated on 2026-09-21 with a short second training pass on generated examples: policy cases with explicit day counts, and cases whose deciding evidence was removed, trained toward a uniform answer. On the test set this moved Kev-9B from 0.837 to 0.852 (95% CI +0.8 to +2.9 points) and Kev-4B from 0.832 to 0.837. The previous weights are at revision `v7-base`. Details and costs are in the model cards and [PLAN.md](PLAN.md).
+
+Two optional settings change the probabilities without changing any answer:
+
+- `KEV_TEMPERATURE=2.0` scales the probabilities by a single temperature fitted on the in-distribution development set. On new sources it cuts Kev-9B's calibration error from 0.106 to 0.050 and its confident errors (wrong answers with probability ≥ 0.9) from 8.7% to 4.4%, about Jev's 3.7%.
+- `KEV_DATE_FACTS=1` appends the number of days between any two absolute dates found in the state ("June 26, 2026 is 8 days before July 4, 2026"). Kev can't subtract dates reliably but it can use a stated day count: on the deadline policy questions Kev-9B goes from 0.80 to 0.90 (Jev 0.93). The numbers in the table above use neither setting.
 
 ![Accuracy by source for Kev and Jev](docs/kev-family.png)
 
@@ -322,8 +329,8 @@ These commands use development data. Test data requires `--allow-test`. The benc
 
 ## Limitations
 
-- Probabilities aren't well calibrated on new sources. On the new-source development set, Kev-4B assigns at least 0.9 probability to a wrong answer on 8.2% of questions (Kev-9B: 7.5%). Test it on your own data before choosing a probability threshold.
-- Fine-tuning can make the base model worse at individual tasks. Date arithmetic is the clearest case: the untrained Qwen3.5-9B base gets 0.82 on the `deadline` policy questions and Kev-9B gets 0.72, because training erodes the skill ([issue #8](https://github.com/jaredpalmer/kev/issues/8), [PLAN_Qwen35.md](PLAN_Qwen35.md)). Knowledge questions (MMLU 0.74 vs Jev 0.90) are the other large gap.
+- Raw probabilities are over-confident on new sources: Kev-9B assigns at least 0.9 probability to a wrong answer on 8.7% of questions (4.4% with `KEV_TEMPERATURE=2.0`). Test it on your own data before choosing a probability threshold.
+- Fine-tuning can make the base model worse at individual tasks. Date arithmetic is the clearest case: the untrained Qwen3.5-9B base gets 0.82 on the `deadline` policy questions and the first Kev-9B got 0.72 ([issue #8](https://github.com/jaredpalmer/kev/issues/8)). Training on examples that state the day count, plus `KEV_DATE_FACTS=1`, recovers it (0.90). Knowledge questions (MMLU 0.74 vs Jev 0.90; MMLU-Pro 0.52 vs 0.84) are the remaining large gap, and they're set by the base model: a Kev trained on the 35B-A3B mixture-of-experts base didn't move them ([PLAN.md](PLAN.md)).
 - The current models are slow on Apple Silicon (see Serving Performance) and need `transformers >= 5.17`.
 - Changing option order can change an answer. Question isolation doesn't prevent this.
 - Training uses at most 384 state tokens and 1,024 tokens for the state plus one question. Serving allows 8,192 tokens for the state plus one question; longer context wasn't covered by training.
